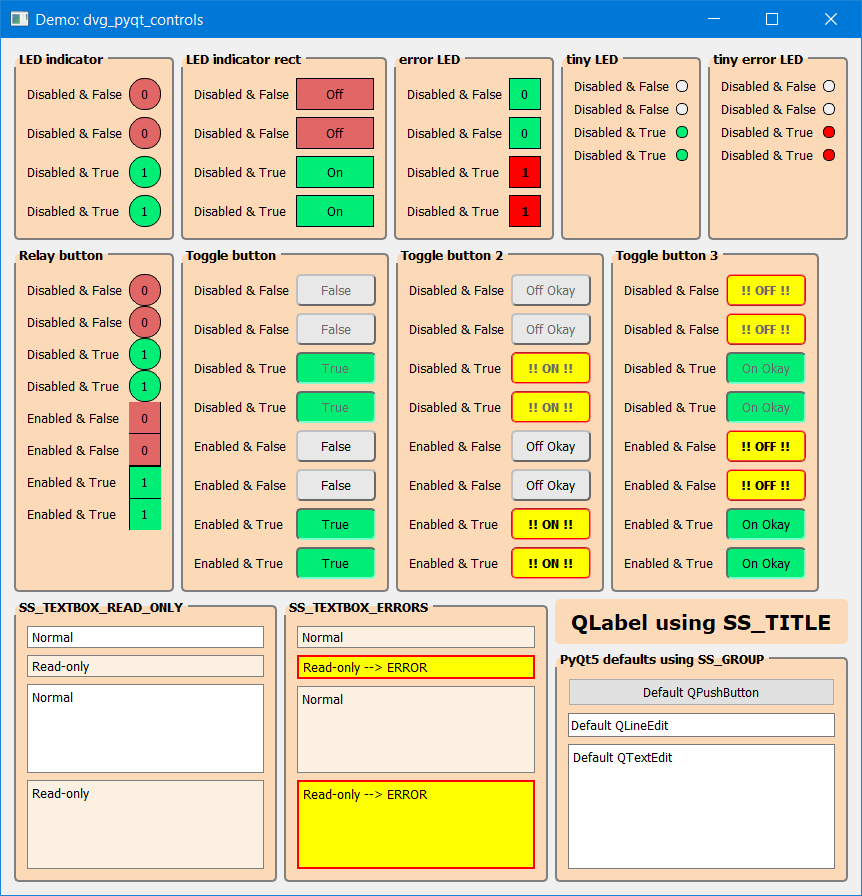
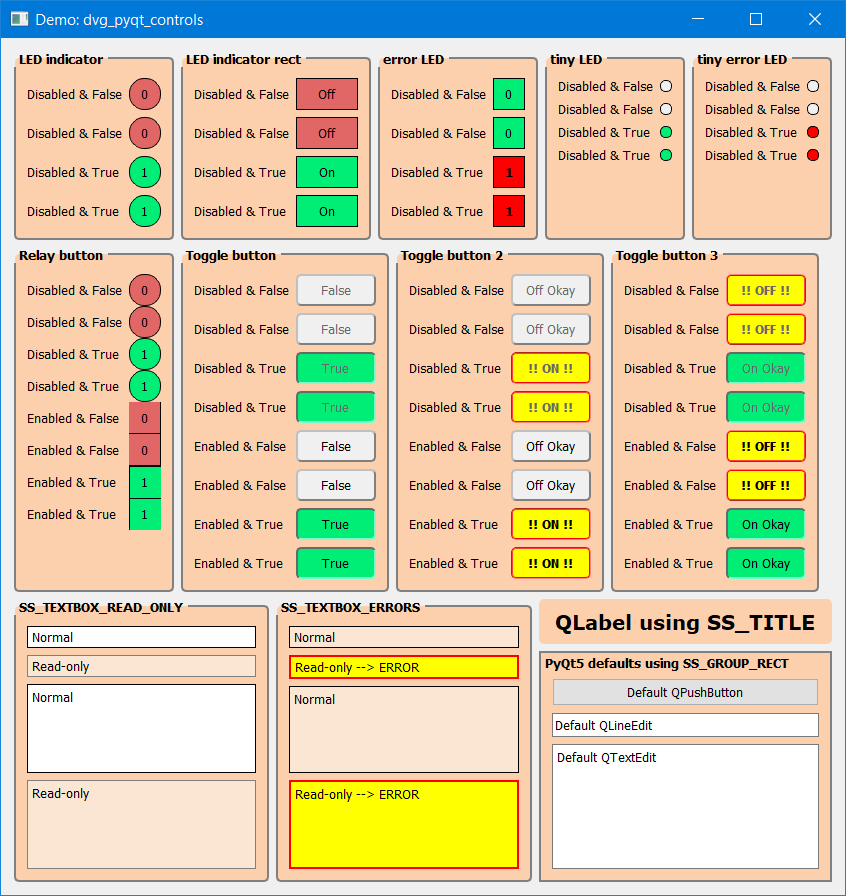
In progress: prepare for PyPi v2.0

diff --git a/src/dvg_pyqt_controls.py b/src/dvg_pyqt_controls.py
@@ -11,7 +11,7 @@ __version__ = "2.0.0"
 
 from PyQt5 import QtCore
 from PyQt5.QtWidgets import QPushButton
-from PyQt5.QtGui import QCursor
+from PyQt5.QtGui import QColor, QCursor
 
 # fmt: off
 # Legacy v1.0
@@ -33,6 +33,13 @@ COLOR_HOVER          = "rgb(229, 241, 251)"
 COLOR_HOVER_BORDER   = "rgb(0  , 120, 215)"
 COLOR_ERROR_RED      = "rgb(255,   0,   0)"
 COLOR_WARNING_YELLOW = "yellow"
+
+# Default settings for PyQtGraph
+# Usage:
+#  pg.setConfigOption("background", COLOR_GRAPH_BG)
+#  pg.setConfigOption("foreground", COLOR_GRAPH_FG)
+COLOR_GRAPH_BG = QColor(  0,  20,  20)  # Foreground
+COLOR_GRAPH_FG = QColor(240, 240, 240)  # Background
 # fmt: on
 
 # ------------------------------------------------------------------------------
@@ -40,61 +47,98 @@ COLOR_WARNING_YELLOW = "yellow"
 # ------------------------------------------------------------------------------
 
 # fmt: off
-SS_TEXTBOX_READ_ONLY = (
+SS_HOVER = (  # Modern v2.0
+    "QLineEdit:hover {"
+        "background: " + COLOR_HOVER + ";"
+        "border: 1px solid " + COLOR_HOVER_BORDER + ";}"
+    "QPlainTextEdit:hover {"
+        #"background: " + COLOR_HOVER + ";"  # Commented out: Ugly
+        "border: 1px solid " + COLOR_HOVER_BORDER + ";}"
+    "QCheckBox:hover {"
+        "background: " + COLOR_HOVER + ";"
+        "border: 0px solid " + COLOR_HOVER_BORDER + ";}"
+    "QRadioButton:hover {"
+        "background: " + COLOR_HOVER + ";"
+        "border: 0px solid " + COLOR_HOVER_BORDER + ";}")
+
+SS_TEXTBOX_READ_ONLY = ( # Modern v2.0
     "QLineEdit {"
         "padding: 0 2px;"
-        "border: 1px solid gray;}"
-
+        "border: 1px solid black;}"
     "QLineEdit:read-only {"
+        "border: 1px solid gray;"
         "background: " + COLOR_READ_ONLY + ";}"
-
-    "QLineEdit::hover {"
-        "border-color: black;}"
+    "QLineEdit:hover {"
+        "background: " + COLOR_HOVER + ";"
+        "border: 1px solid " + COLOR_HOVER_BORDER + ";}"
+    "QLineEdit:read-only:hover {"
+        "background: " + COLOR_READ_ONLY + ";"
+        "border: 1px solid " + COLOR_HOVER_BORDER + ";}"
 
     "QPlainTextEdit {"
+        "border: 1px solid black;}"
+    'QPlainTextEdit[readOnly=\"true\"] {'
+        "background-color: " + COLOR_READ_ONLY + ";"
         "border: 1px solid gray;}"
-
-    'QPlainTextEdit[readOnly="true"] {'
-        "background-color: " + COLOR_READ_ONLY + ";}"
-
-    "QPlainTextEdit::hover {"
-        "border-color: black;}"
+    "QPlainTextEdit:hover {"
+        #"background: " + COLOR_HOVER + ";"  # Commented out: Ugly
+        "border: 1px solid " + COLOR_HOVER_BORDER + ";}"
+    'QPlainTextEdit[readOnly=\"true\"]:hover {'
+        "background-color: " + COLOR_READ_ONLY + ";"
+        "border: 1px solid " + COLOR_HOVER_BORDER + ";}"
 )
 
-SS_TEXTBOX_ERRORS = (
+SS_TEXTBOX_ERRORS = (  # Modern v2.0
     "QLineEdit {"
         "padding: 0 2px;"
-        "border: 1px solid gray;"
+        "border: 1px solid black;"
         "background: " + COLOR_READ_ONLY + ";}"
-
+    "QLineEdit:hover {"
+        #"background: " + COLOR_HOVER + ";"  # Commented out: Ugly
+        "border: 1px solid " + COLOR_HOVER_BORDER + ";}"
     "QLineEdit:read-only {"
         "border: 2px solid red;"
-        "background: yellow;"
+        "background: " + COLOR_WARNING_YELLOW + ";"
         "color: black;}"
-
-    "QLineEdit::hover {"
-            "border-color: black;}"
-
-    "QLineEdit:read-only::hover {"
-        "border-color: red;}"
 
     "QPlainTextEdit {"
-        "border: 1px solid gray;"
+        "border: 1px solid black;"
         "background-color: " + COLOR_READ_ONLY + ";}"
-
-    'QPlainTextEdit[readOnly="true"] {'
+    "QPlainTextEdit:hover {"
+        "border: 1px solid " + COLOR_HOVER_BORDER + ";}"
+    'QPlainTextEdit[readOnly=\"true\"] {'
         "border: 2px solid red;"
-        "background-color: yellow;"
-        "color: black;}"
+        "background-color: " + COLOR_WARNING_YELLOW + ";"
+        "color: black;}")
 
-    "QPlainTextEdit::hover {"
-        "border-color: black;}"
+SS_TABS = (  # Modern v2.0
+    "QTabWidget::pane {"
+        "border: 0px solid gray;}"
+    "QTabBar::tab:selected {"
+        "background: " + COLOR_TAB_ACTIVE + "; "
+        "border-bottom-color: " + COLOR_TAB_ACTIVE + ";}"
+    "QTabWidget>QWidget>QWidget {"
+        "border: 2px solid gray;"
+        "background: " + COLOR_TAB_ACTIVE + ";} "
+    "QTabBar::tab {"
+        "background: " + COLOR_TAB + ";"
+        "border: 2px solid gray;"
+        "border-bottom-color: " + COLOR_TAB + ";"
+        "border-top-left-radius: 4px;"
+        "border-top-right-radius: 4px;"
+        "min-width: 119px;"
+        "padding: 6px;} "
+    "QTabBar::tab:hover {"
+        "background: " + COLOR_HOVER + ";"
+        "border: 2px solid " + COLOR_HOVER_BORDER + ";"
+        "border-bottom-color: " + COLOR_HOVER + ";"
+        "border-top-left-radius: 4px;"
+        "border-top-right-radius: 4px;"
+        "padding: 6px;} "
+    "QTabWidget::tab-bar {"
+        "left: 0px;}")
 
-    'QPlainTextEdit[readOnly="true"]::hover {'
-        "border-color: red;}"
-)
-
-SS_GROUP = (
+SS_GROUP = (  # Legacy v1.0
     "QGroupBox {"
         "background-color: " + COLOR_GROUP_BG + ";"
         "border: 2px solid gray;"
@@ -102,19 +146,38 @@ SS_GROUP = (
         "font: bold;"
         "padding: 8 0 0 0px;"
         "margin-top: 2ex;}"
-
     "QGroupBox:title {"
         "subcontrol-origin: margin;"
         "subcontrol-position: top left;"
         "padding: 0 3px;}"
-
     "QGroupBox:flat {"
         "border: 0px;"
         "border-radius: 0 0px;"
         "padding: 0;}"
 )
 
-SS_TITLE = (
+SS_GROUP_RECT = (  # Modern v2.0
+    "QGroupBox {"
+        "background-color: " + COLOR_GROUP_BG + ";"
+        "border: 2px solid gray;"
+        "border-radius: 0px;"
+        "font: bold;"
+        "margin: 0;"
+        "padding: 14 0 0 0px;}"
+    "QGroupBox::title {"
+        "subcontrol-origin: margin;"
+        "subcontrol-position: top left;"
+        "margin: 0;"
+        "padding: 0;"
+        "top: 4 px;"
+        "left: 4 px;}"
+    "QGroupBox:flat {"
+        "border: 0px;"
+        "border-radius: 0 0px;"
+        "padding: 0;}"
+)
+
+SS_TITLE = (  # Legacy v1.0
     "QLabel {"
         "background-color: " + COLOR_GROUP_BG + ";"
         "padding: 10px;"
@@ -148,7 +211,7 @@ SS_LED_RECT = (  # Modern v2.0
         "color: black;"
         "min-height: 30px;"
         "min-width: 60px;}" # Was 76px
-    "QPushButton::checked {"
+    "QPushButton:checked {"
         "background-color: " + COLOR_LED_GREEN + ";}")
 
 SS_ERROR_LED = (  # Modern v2.0

diff --git a/demos/demo_pyqt_controls.py b/demos/demo_pyqt_controls.py
@@ -208,7 +208,8 @@ class MainWindow(QtWid.QWidget):
         grid.addWidget(QtWid.QLineEdit("Default QLineEdit"), 1, 0)
         grid.addWidget(QtWid.QTextEdit("Default QTextEdit"), 2, 0)
 
-        grpb = QtWid.QGroupBox("PyQt5 defaults using SS_GROUP")
+        grpb = QtWid.QGroupBox("PyQt5 defaults using SS_GROUP_RECT")
+        grpb.setStyleSheet(c.SS_GROUP_RECT)
         grpb.setLayout(grid)
 
         vbox_sub = QtWid.QVBoxLayout()
